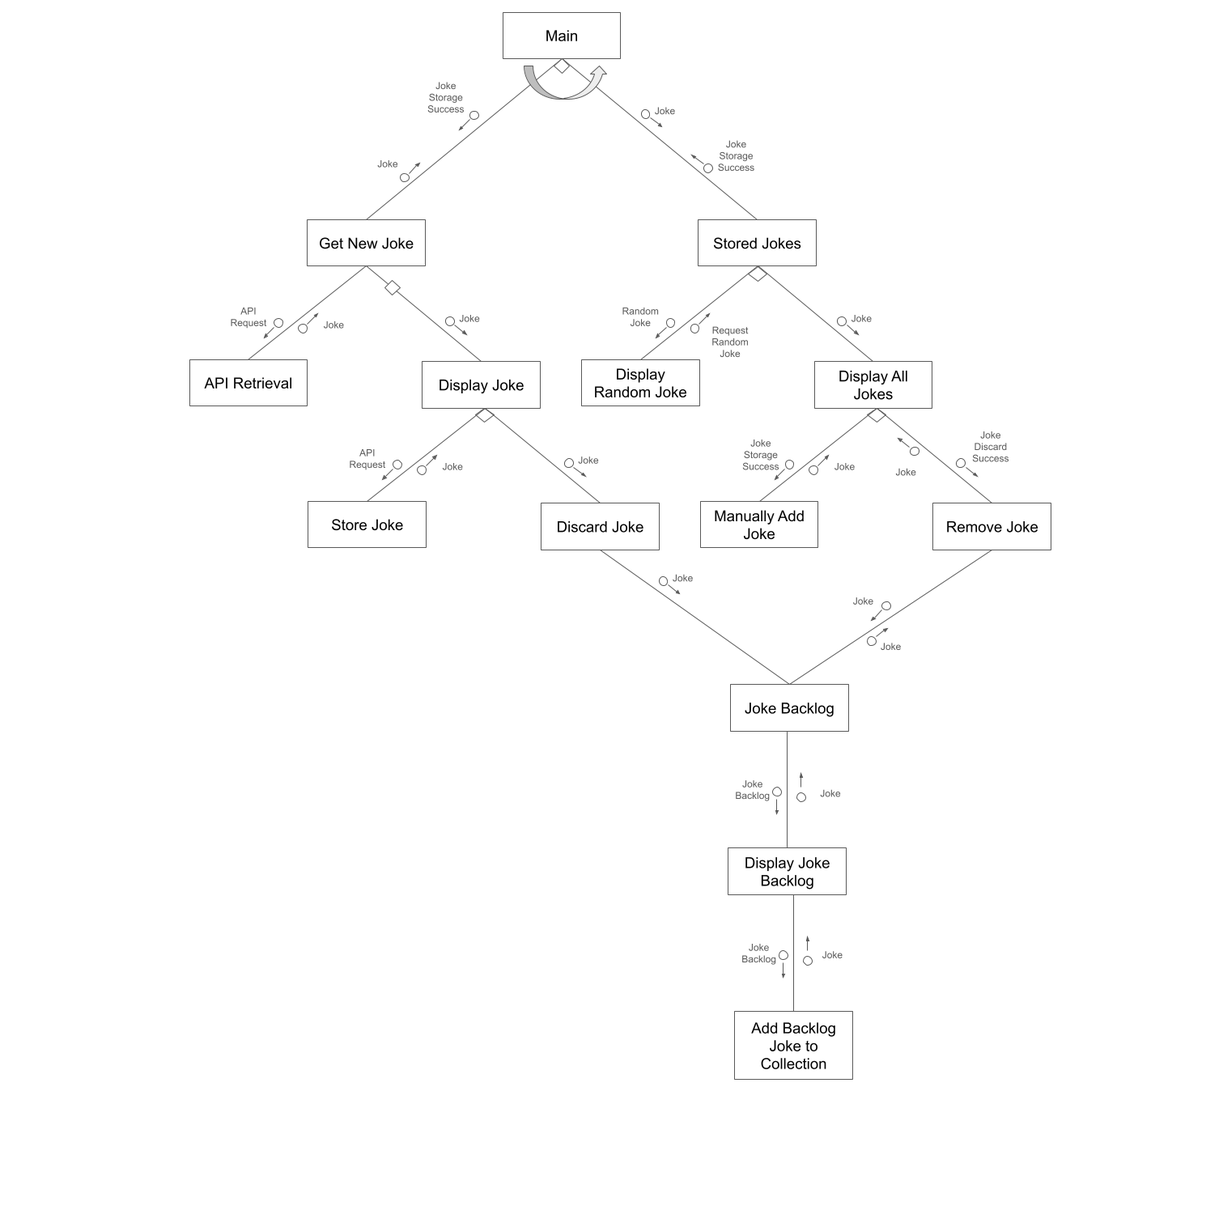
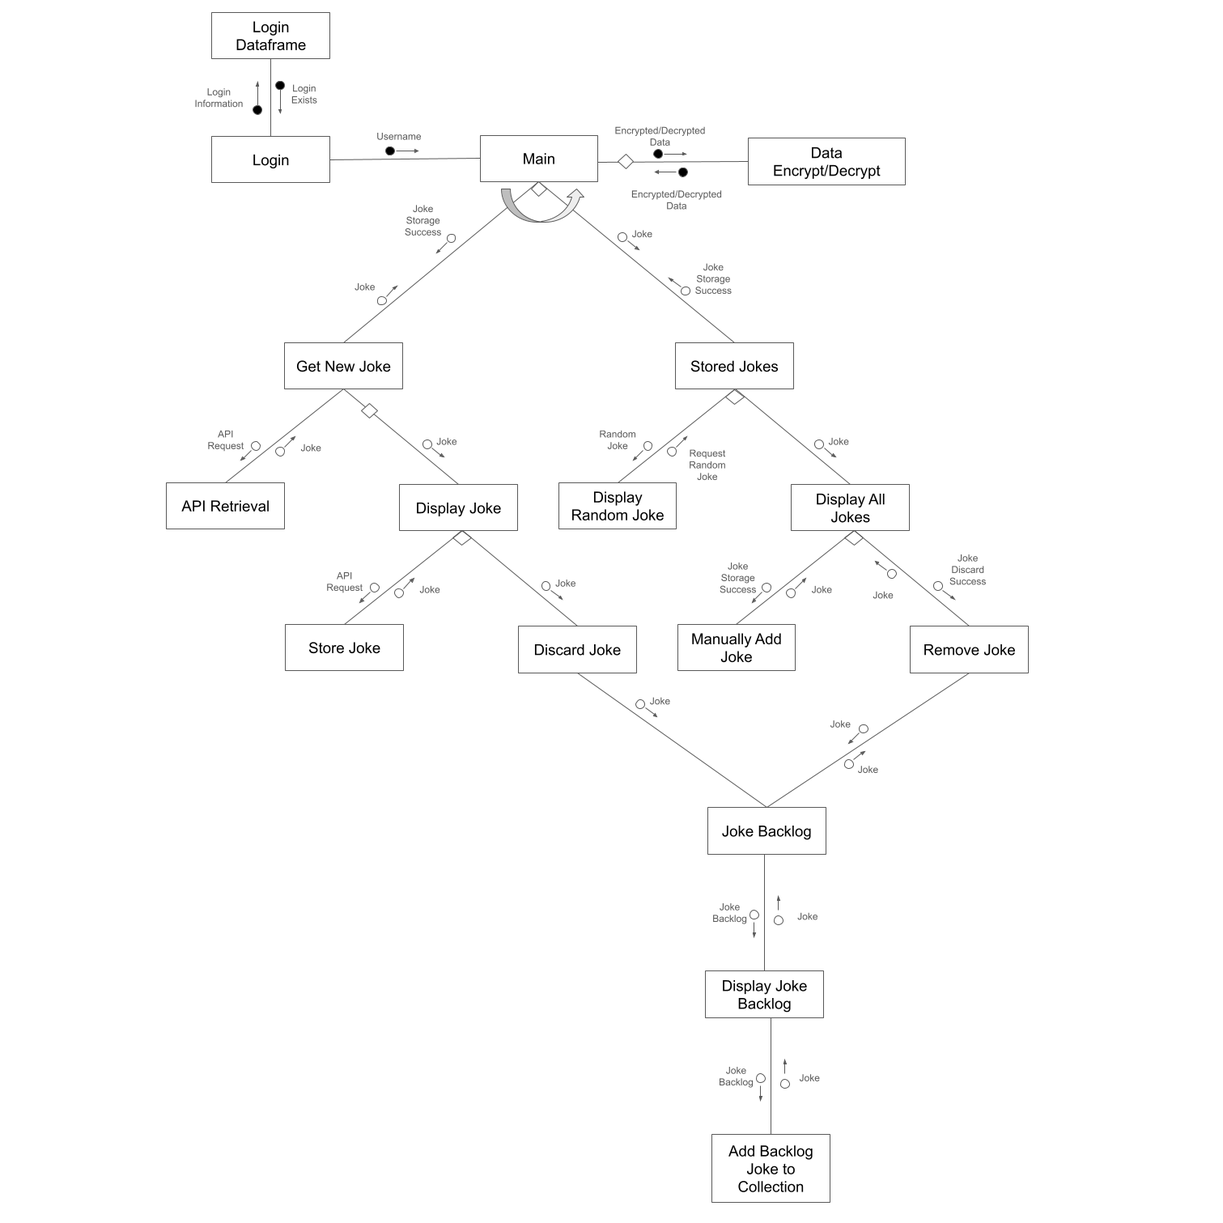
06/04/2025 - Home
Finished the Majority of the theory, tomorrow I will finish the flowcharts, receive feedback, and submit the task.

diff --git a/PROJECT_DEVELOPMENT.md b/PROJECT_DEVELOPMENT.md
@@ -1,16 +1,11 @@
 # <ins> **10SE - Miles Cutting - 2025 - Assessment Task 1 - Data Science** <ins>
 
-## Notes for Later Miles:
-https://jokes.one/api/joke/#jodc-python
-https://github.com/public-apis/public-apis
-https://deno.land/x/joke@v2.0.0
-
 ## <ins> Requirements: <ins>
 ***
 ### Functional Requirements:
 * Data Retrieval: The user needs to be able to easily and effectively read a joke, then decide, through the use of interactive buttons, if the joke is good, and worth putting in their collection, or bad, and discarding it. After the decision, the user is presented with a new joke. At any time, the user can look at all their jokes in their collection, which is is a table, storing their jokes, and punchlines.
 
-* User Interface: Their needs be be several key elements for the user to interact with. The first is a 'tab' system, that has a main page, a collections page, and a help page. The main page will have text on the screen that says the joke, and underneath, it will contain a thumbs up and thumbs down button, the thumbs up button will save the joke in the users collection folder. The thumbs down button will discard the joke, then the joke disappears and a new one is added. The collections page will display a table for the user to scroll through that contains the joke and the punchline. It will have two actions that the user can interact with, A 'random button', which presents a random joke from their collection, and a 'Add Joke Button', which manually lets a user enter a joke into their collection. The help tab will be the README file printed, which will contain the instructions of the program, the user does not need to interact with anything on this tab.
+* User Interface: Their needs be be several key elements for the user to interact with. The first is a 'tab' system, that has a main page, a collections page, and a history page. The main page will have text on the screen that says the joke, and underneath, it will contain a thumbs up and thumbs down button, the thumbs up button will save the joke in the users collection folder. The thumbs down button will discard the joke, then the joke disappears and a new one is added. The collections page will display a table for the user to scroll through that contains the joke and the punchline. It will have two actions that the user can interact with, A 'random button', which presents a random joke from their collection, and a 'Add Joke Button', which manually lets a user enter a joke into their collection. The history tab will have the history of the previous jokes/actions they have interacted with.
 
 * Data Display: The user needs to obtain key information from the system. On the Main tab, a visual pop-up with the joke needs to show up, the second is visual feedback on their actions with the joke, i.e If they added it to their collection, they get visual feedback to see it go into their collections, or if they discard it, they receive visual feedback to see that it has not entered their collection. On the collections tab, the user needs clearly to see the joke they receive when they click the random joke button. The second is visual feedback that the joke they have entered into the system, has gone into their collections folder.
 
@@ -19,12 +14,12 @@ https://deno.land/x/joke@v2.0.0
 
 * Reliability: There are two parts of the software that will cause the software to become unreliable or not function as intended. The first of these is the user. The system will have very few points where the user can incorrectly enter information or make a mistake, this means that the software will have very few points of failure from user error. The second part that can have issues with reliability is the api. Changes with how the api functions can impact how the software will run. To ensure these possible issues are communicated to the user, an effective error message handling system is required in the final product. Another layer of protection to support the user in possible issues, is storing the collections on the individual device, which will mean that even with issues with the api, a collection of jokes will still be accessible.
 
-* Usability and Accessibility: The system needs to be intuative enough for someone with little to no computer literacy to effectively use the software, with the only information given to them is the functionality of the software. i.e It curates and stores jokes. To accomplish this, I want to use a range of icons, and labeled buttons, such as thumbs up and thumbs down, and tabs with names, such as Main, Collection, and Help.
+* Usability and Accessibility: The system needs to be intuative enough for someone with little to no computer literacy to effectively use the software, with the only information given to them is the functionality of the software. i.e It curates and stores jokes. To accomplish this, I want to use a range of icons, and labeled buttons, such as thumbs up and thumbs down, and tabs with names, such as Main, Collection, and History.
 
 ## <ins> Specifications: <ins>
 ***
 ### Functional Specifications:
-s#### User Requirements:
+#### User Requirements:
 * Select whether a joke is good, and worth keeping in their collection, or not, and be discarded.
 * View their collection of jokes in a easy to read table that separates the main line and the punch line.
 * Manually add a Joke to their collection.
@@ -96,38 +91,25 @@ Postconditions: Joke data is retrieved, stored, randomized, displayed, or remove
 BEGIN Main()
     GetNewJoke = Tab Button
     JokeCollections = Tab Button
-    Help = Tab Button
+    History = Tab Button
 
-    WHILE TRUE:
-        IF User Clicks GetNewJoke Tab:
-            GetNewJoke()
-            BREAK
-        ELIF User Clicks JokeCollections Tab:
-            JokeCollection()
-            BREAK
-        ELIF User Clicks Help Tab:
-            Help()
-            BREAK
-        ELSE:
-            PASS
-        ENDIF
-    ENDWHILE
-END Main()
-```
-
-#### Get New Joke:
-```
-BEGIN GetNewJoke()
-    Joke = RetrieveAPI()
-    DISPLAY Joke
+    DISPLAY Get New Joke()
     DISPLAY Thumbs Up Button
     DISPLAY Thumbs Down Button
+
+    DISPLAY Collection Joke
+    DISPLAY New Collection Joke Button
+
+    DISPLAY Add Joke Setup
+    DISPLAY Add Joke Punchline
+    DISPLAY Add Custom Joke Button
 
     WHILE TRUE:
         IF User Clicks Thumbs Up:
             JokeCollection(Joke)
         ELIF User Clicks Thumbs Down:
             JokeBackLog(Joke)
+        IF User clicks 
         ELSE:
             PASS
         ENDIF
@@ -166,12 +148,200 @@ BEGIN JokeCollection()
 END Main()
 ```
 
+#### Get New Joke
+```
+BEGIN JokeCollection()
+    API = JokeAPI
+    Return API(Setup), API (Punchline)
+    
+    APPEND API(Setup), API (Punchline) TO RollingJokes-DF
+    REMOVE First joke FROM RollingJokes-DF
+
+    DISPLAY RollingJokes-DF Table
+    DISPLAY RollingJokes-DF Buttons
+
+END Main()
+```
+
 ### Data Dictionary: (Format For Joke Collection Storing)
 | Variable | Data Type | Format for Display | Size in Bytes | Size for Display | Description | Example | Validation |
 | :---- | :---- | :---- | :---- | :---- | :---- | :---- | :---- |
-| Joke_# | Integer | NNNN | 4 | 4 | A unique code for each joke, to make sorting for random jokes faster and more reliable. | 1385 | A 4 digit long code |
-| Joke_Setup | String | XXX…XXX | 200 | 200 | The setup of each joke | A man walks into a bar | A string under 201 characters |
-| Joke_Punchline | String | XXX…XXX | 200 | 200 | The punchline of each joke | His friend says, are you okay? | A string under 201 characters |
+| Joke index in Table | Integer | NNNN | 4 | 4 | A unique code for each joke, to make sorting for random jokes faster and more reliable. | 1385 | A 4 digit long code |
+| Joke Setup | String | XXX…XXX | 200 | 200 | The setup of each joke | A man walks into a bar | A string under 201 characters |
+| Joke Punchline | String | XXX…XXX | 200 | 200 | The punchline of each joke | His friend says, are you okay? | A string under 201 characters |
+| Joke\_df | Pandas DF | Table |  | Whole Display | A table with two columns and an index that stores the setup and punchline of each joke in itself. | Setup, Punchline A man walks into a bar, His friend says, are you okay? | A table with at least one row and two columns, filled with strings. |
+| RollingJoke\_df | Pandas DF | Table |  | Whole Display | A table with two columns, and always 5 rows with an index that stores the setup and punchline of each joke in itself. | Setup, Punchline A man walks into a bar, His friend says, are you okay? | A table with five rows and two columns, filled with strings. |
 
 
-Development:
+### Project Development Commits:
+#### 03/03/2025: School  
+Created the files I would be using over the timeline of the Assessment Task which included:  
+ \- main.py  
+ \- README.md  
+ \- requirements.txt  
+ \- PROJECT\_DEVELOPMENT.md  
+Then I passed the scaffold for the task into the Project Development file.
+
+This will help me stay focused with clear goals for what to be working on/towards.
+
+The next step is working on determining the requirements and specifications.
+
+#### 04/03/2025: School \+ Chapman Centre  
+Finished the Functional and Non-Functional requirements of the task, and have started to work on the Functional and Non-Functional specifications.
+
+This will give me clear goals, requirements, and achievements when working on the task.
+
+Next is finishing the specifications and moving onto the next part of the theory.
+
+#### 05/03/2025: School  
+Finished the majority of Functional and Non-Functional Specifications.
+
+This will give me a clear set of guidelines to work towards during the task.
+
+Next is finishing Specifications and starting work on use cases, then the charts.
+
+#### 07/03/2025: School  
+Started to work on use Cases, with still a few parts of specifications to finish.
+
+Use Cases will give me a good guide for the intended workflow of the program, and give me more guidance on how the system will work together.
+
+Next is finishing specifications and Use Cases, then finishing the charts.
+
+#### 10/03/2025: School  
+Finished Specifications, Use Cases, and started working on charts.
+
+The charts will provide a good visual representation of the program, and other crucial details, such as time management.
+
+Next is finishing the charts and design part of the project.
+
+#### 11/03/2025: School  
+Finished most of the design, the rest I will finish once I Have completed the task to better understand how it all fits together. I also started work on the task, pulling code from old projects as a starting point for the current project. This consisted of mostly elements for the tKinter GUI, such as how to set up frames (Tabs), and changing names and sizes for windows, however not lots was transferable.
+
+This will provide me a good foundation to start building my code from, since it has been proven to work for the same goal.
+
+The next goal is integrating the API and getting it working.
+
+#### 17/03/2025: School  
+When I started designing the project, I originally intended to use the JokesOne API, found here: https://jokes.one/api/joke/\#jodc-python, but due to its nature of being a for-profit project, with the free functionality being at best having extremely limiting functionality, and at work being completely unusable. However, I was able to find a new API, which is missing a range of features that the JokesOne API had, and is still much easier to use and integrate. It is called https://deno.land/x/joke@v2.0.0. It requires no API key, which will simplify the integration process. It's only key limiting factor, is it doesn't have as large of a range of jokes, and then all the jokes it does have are mostly cringe.
+
+With the API working most of the time, I will have lots of data to add into my program to get more key elements working effectively
+
+The next goal is getting the API working every time, and storing the data in a Pandas Dataframe.
+
+#### 18/03/2025: Home  
+After a bit of playing around with the API, and referencing the example code for how to get it working, it is working consistently, and providing new jokes on command within a text based interface. The issue I was having with it was I was trying to call a specific type of joke i.e a Programming Joke, and I implemented that feature wrong. However, I won't use this feature due to the small amount of jokes in the API.
+
+This will mean I can eliminate causes for errors easier when working with the API, since I know it is working.
+
+Next is implementing it into the Pandas Dataframe.
+
+#### 19/03/2025: School   
+Today I started implementing the Jokes into a Pandas Dataframe, making storing, and manipulating them easier. As of now, it prints the new joke in the GUI, and a button replaces it with a new joke from the API, and depending on which button, discards it or adds it the the dataframe.
+
+This will be important to have working for later integration with the system as a whole.
+
+Next is working on viewing the Collection as a whole.
+
+#### 24/03/2025: School  
+Now the Data is being stored in a Pandas dataframe, displaying that data to the user is the next step. To do this, I found a python program called \`pandastable\`, that is designed to put a 'Excel' like experience, in a tKinter GUI, and is specifically designed to work with pandas dataframes. This will be a vital tool to use in my program, and will be perfect for how I want to display my data to the User. I implemented this into the second frame of my tkinter window.
+
+These changes will change how I store data in the future, to make it better fit in the Pandastable.
+
+Next is Saving the data frame as a CSV file to be usable across sessions of running the program.
+
+#### 25/03/2025: School  
+There was a range of different ways I could have approached saving the Dataframes as a CSV, my first option was to save it as a CSV on every interaction the user had with the software, however, I also wanted to encrypt the data, and it resulted in being too much for the program to handle. My next idea was to save it every time it closed, where sir was able to help me find code for tkinter that changed the function of the 'X' button, and allowed me to convert it every time the program was closed.
+
+This will also allow for easier integration with the encryption process I want to add later.
+
+The next few steps are adding a Login Feature to individually assign a login to each user, and add encryption for each user's collection.
+
+#### 30/03/2025: Home  
+Now I had the Jokes being stored, I added a login function that ran before the main Joke program that allowed the user to enter a username and password to login, or create a username and password. Then it SHA256 encrypts the password, ensuring the Password cant be reverse encrypted to login into someone else's account. Now when the program is running, it stores each individuals jokes under their user folder, in 'Collections.csv'
+
+This will keep user specific data together, and will increase the utility of the program for different people using it. 
+
+Next is encrypting the Users CSV files to keep them secure.
+
+#### 31/03/2025: School   
+Today I added encryption for the CSV Files through the use of \`cryptography\`, which when the user opens the program and logs in, it decrypts their CSV file. After they close the program, it re-encrypts the CSV file. However, it still has some minor issues that still need to be fixed.
+
+This makes the entire program more secure, greatly increasing the utility of the software. 
+
+Next will be improving the encryption to make it more seamless, and work more reliably.
+
+#### 31/03/2025: Home  
+Finished getting encryption working properly, now it consistently encrypts and decrypts files.
+
+This will give confidence to my users in their security. 
+
+Next will be working on making the system as a whole look better, and adding key features, such as my Rolling Joke API.
+
+#### 01/04/2025: Home  
+Today I worked on fixing the Login GUI, making use of the .pack() tkinter commands. Now it looks better, and has a range of key features, such as having default text that says 'Username' etc, that removes when the user starts to type. It also makes it more clear and manageable to look at. I also added a hide password feature, that can hide the password being entered by the user.
+
+This simplifies the login experience, making it more clear the features and role of each of the buttons in the Login.
+
+Next is making the Main program screen look better.
+
+#### 02/04/2025: School  
+For the main login screen, I added a background colour, and added variables for them, making it simpler to switch between colours and test colours for backgrounds and accents. I also unified the layout closer to the layout for the login, making it simpler to understand. 
+
+This will improve how the user interacts with the system, but I am still having problems with it, most notably the buttons for storing and discarding jokes aren't going next to each other, which is an important layout design I want for my program.
+
+Next is adding key features, and further improving the UI of the main program.
+
+#### 02/04/2025: Home  
+Added 2 key features, which were the Random Joke from collection, and the manually adding jokes. Then I further improved the home screen to accommodate these features being added. To solve the buttons being next to each other, I created a new frame inside of the existing frame, and put the buttons on the left and right side of that smaller frame. While working on this however, I found an issue with the login function, which was the password hider isn't working correctly.
+
+These features are critical in this kind of program, and adding them has improved the experience with using the software, making it more customisable for the user. Adding these features was also simple, because the extensive infrastructure that runs them was already there for the other features. They work well and will be a great addition to the software.
+
+Next is fixing some issues with the code, and the code structure.
+
+#### 03/04/2025: Home  
+The way I was doing colours in my program was very poor, so I completely redid it, making them all tied to two variables, one for background colour, and the other for the accent colour. Furthermore, I fixed problems with the remove row feature. (Also side note: I had Jamie do some testing of the program, and he tested the remove row feature. I don't know how he did it, I have tried to reproduce what he has done, doing exactly what he did, but he somehow managed to delete the entire first column instead of the row. I don't know how he did it. But I tried for a good few hours to fix it. If it happens to you, please let me know how you did it. I cannot figure it out. Or maybe I fixed it and it won't happen again, I can only hope)
+
+Fixing these features means the user can fully control their collection, making it personalised to their taste in jokes, making them effective features to get working correctly.
+
+At school, I will keep working on fixing minor issues, and patching issues, specifically around user entered content.
+
+#### 04/04/2025: School  
+Today I fixed a few minor issues, most notably the Show Password feature still had some minor tweaks that needed to be fixed. To do this, I put it into a function that would show and hide passwords. I also converted it to a tkinter Bool Variable, which made it work better with the tkinter Checkbox it was connected to.
+
+This minor improvement just fixes issues with the existing software, making it a not very impactful change to the overall software.
+
+Next is adding the Rolling API feature that adds the ability for the user to look at their history, and speed up the process of retrieving the API.
+
+#### 04/04/2025: Home  
+Added the Rolling API function, allowing the User to view their history whenever they remove a joke, discard a joke, or other functions. My first idea for this used nested lists, but this proved difficult to impliment into the Pandas pipeline.
+
+One key issue I found when implementing this, is because of how my code ran, the main advantage of it 'Running Faster' because it was getting it in the background turned out to not work because the program wouldn't continue until it had received the joke, making it only useful as a history tool, which is still an important and useful feature for my program.
+
+Next if polishing the code and theory component of the task.
+
+#### 05/04/2025: Home  
+Today I finished implementing all of the final features of the code, making sure they all worked properly, and fixed some minor issues with it, mostly revolving around the Rolling API feature. Then I went through and put comments through most of the code, highlighting what every feature of the code does, and how it works.
+
+This process ensures the user has a great experience wit has few errors as possible.
+
+Tomorrow's job is to finish the code comments.
+
+#### 06/04/2025: Home  
+Finished the code comments, and Finished the theory element of the project.
+
+
+### Maintainence:
+1. The API I used has been running for a long time, with little to no changes in the amount of data, and the format for the data, however, in the event of it changing, because of How I handled implimenting the API, the user would still be able to use a range of features and elements of the software until I fixed it. Fixing it would be a simple process, changing only a few lines of code. If the API completely shut down, it wouls still be quick, easy, and effective to switch to another API that provides similar functionality.
+
+2. When designing my program, Pandas specifically mentioned the use of specific functions losing functionality in later updates of python, which was the Append method that added rows to dataframes. So while I was developing the program, I took notice of which functions where going to remain in service, and which ones wouldn't. IDK
+
+3. After deployment, if I found a Bug, I would alert the users of the software, letting them know their was an issue with the program, what parts of the program it affected, and provide a helpful work around until the problem could be addressed, and a rough timeline for solving the problem. Then I would start working on solving the problem, and release a new version of the softwre to the userbase, with the bug fixed.
+
+4. Due to the extensive documentation throughout my code, I can easily use the ctrl+f feature to find elements of my code that preform different actions, then read the comments for what each line does easily, and effectively.
+
+### Evaluation:
+1. My program meets all of my funcitonal and non-functional requirements and specifications effectively and completely, and then adds more features on top of it. While my program doesn't look or function in the way I first intended and wanted it to, it still met the criteria I set in a effective way. 
+
+2. Their are 3 key areas where I feel as though my program could be improved upon. The first is my rolling joke feature to pull the API in the background didn't work, slowing the software. With more experience with python and programming as a whole, this is something I believe I can achieve, however with my limited knowledge, it was beyond the scope for this project. The next key feature I wanted to add was specialised/themed jokes. In the API I used, and many API's like it, it gave a theme that the joke fell under, such as Programming Joke, or Animal Joke. Allowing the user to chose these specific jokes would be an excellect feature to add, however the API's repository of jokes was very small, and adding this feature would mean the Jokes presented would be repeative. Building on that point, the final thing I would improve upon again in this program is using a different API, that provides more features and content to be explored in the program.
+
+3. My time management with the project wall overall very good. I have finished it almost a full week before the due date, and everytime I worked on the project, it was meaningful improvements, that contributed heavily towards the final product. However, the project I made wasn't correctly scoped for this project, with the timeline of development for the project being to variable, which led me adding non-critical features before more important ones, which led to my code being more complex than it needed to, or should have been. If I where to do this project again, I would spend more time on the theory at the start of the project, and add a new section just for my use, that clearly states what feature I will add, How I will add it, and how it will interact with the program. While my code is still very light and easy to run, their are a range of improvements I could have made to it that would have improved its functionality, scalability of features, and usefulness as a program.
